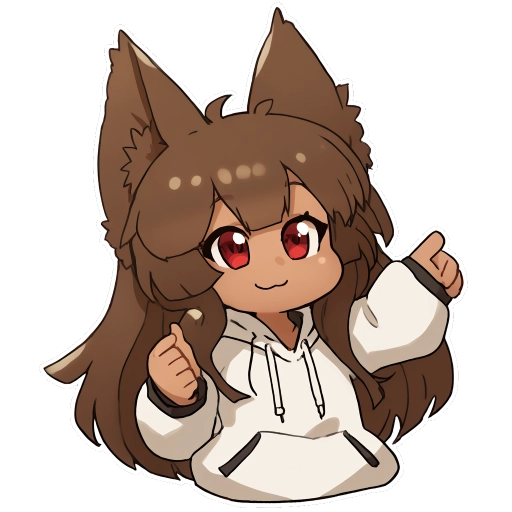
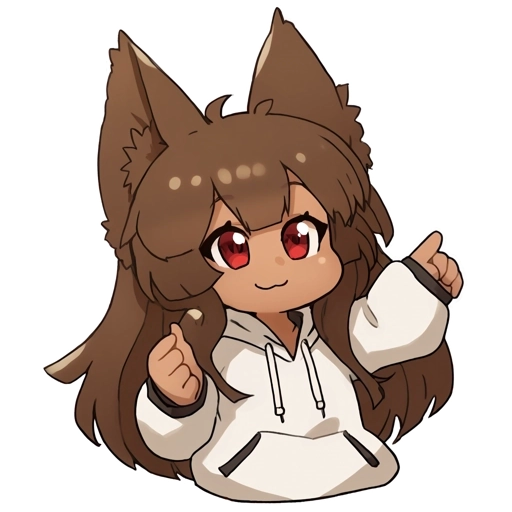
Fix: Removed several visible AI artifacts (e.g., 6 fingers) (#37)
* Fix: Removed several visible AI artifacts (e.g., 6 fingers)

* Add an entry to docs/docs/CHANGELOG.md

diff --git a/docs/docs/CHANGELOG.md b/docs/docs/CHANGELOG.md
@@ -12,6 +12,7 @@ and this project adheres to [Semantic Versioning](https://semver.org/spec/v2.0.0
 ## [Unreleased]
 
 - Documentation has been moved to https://anubis.techaro.lol/ with sources in docs/
+- Removed several visible AI artifacts (e.g., 6 fingers) [#37](https://github.com/TecharoHQ/anubis/pull/37)
 
 ## 1.13.0
 
